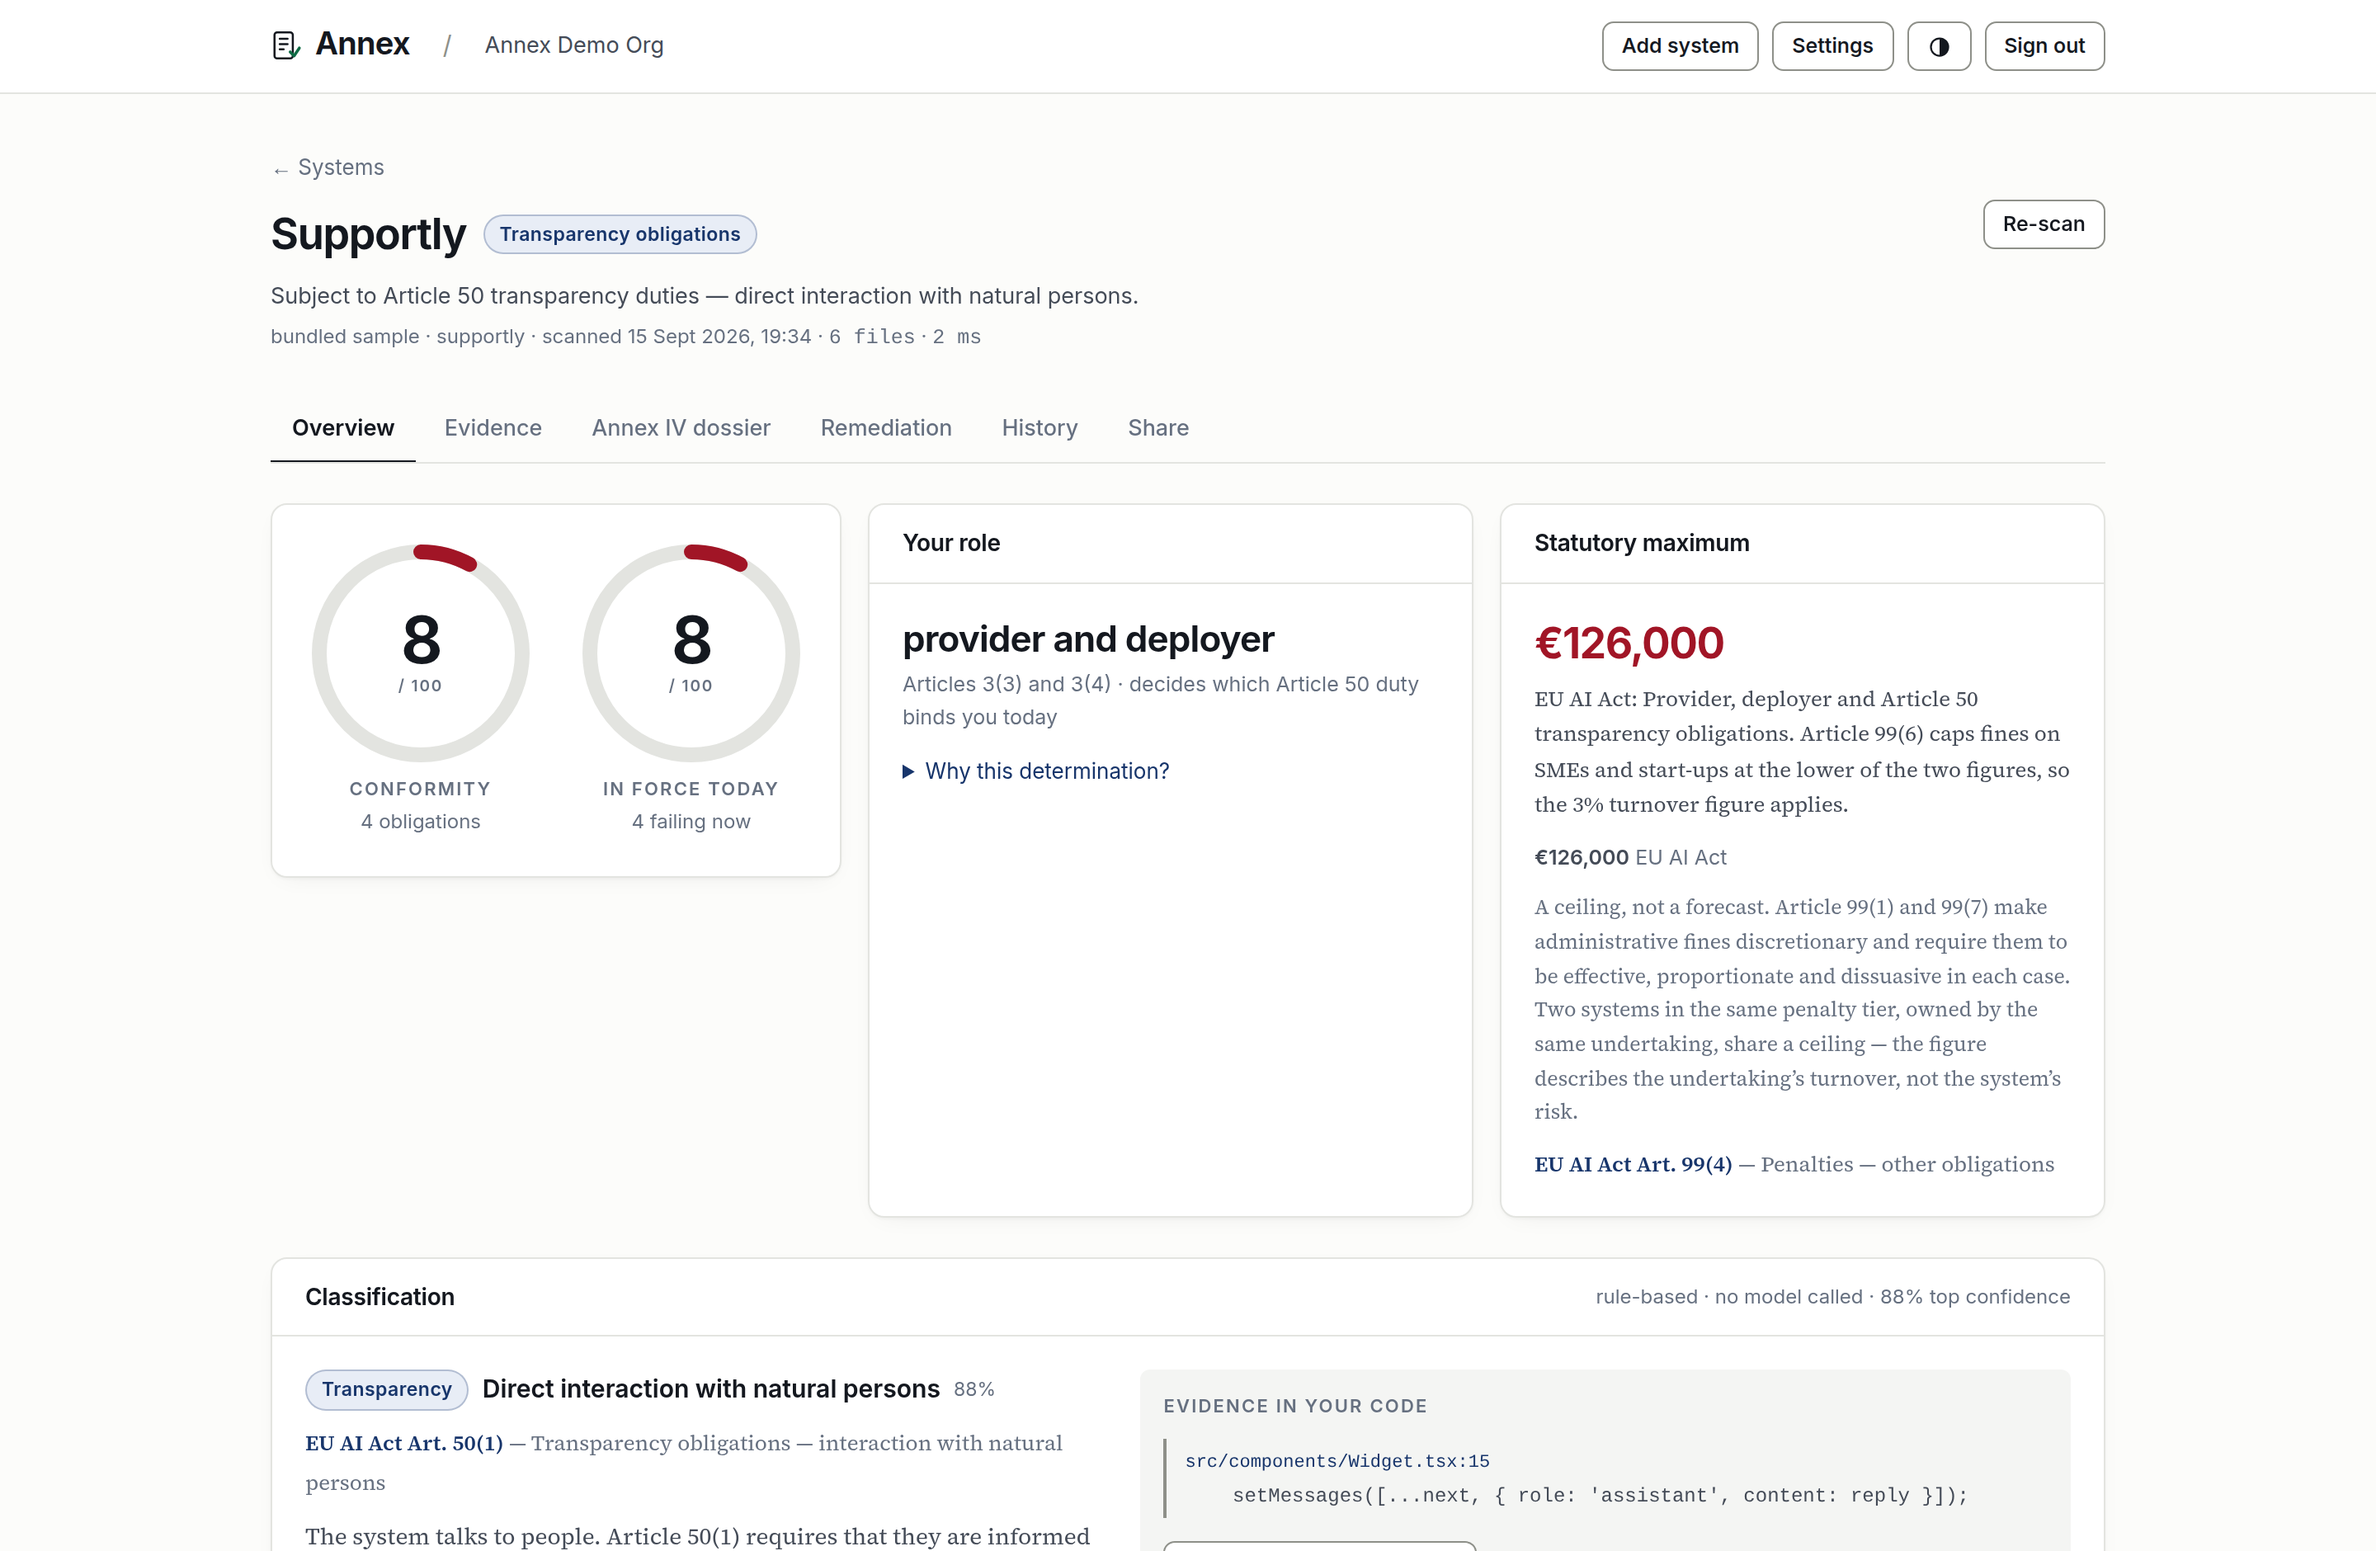
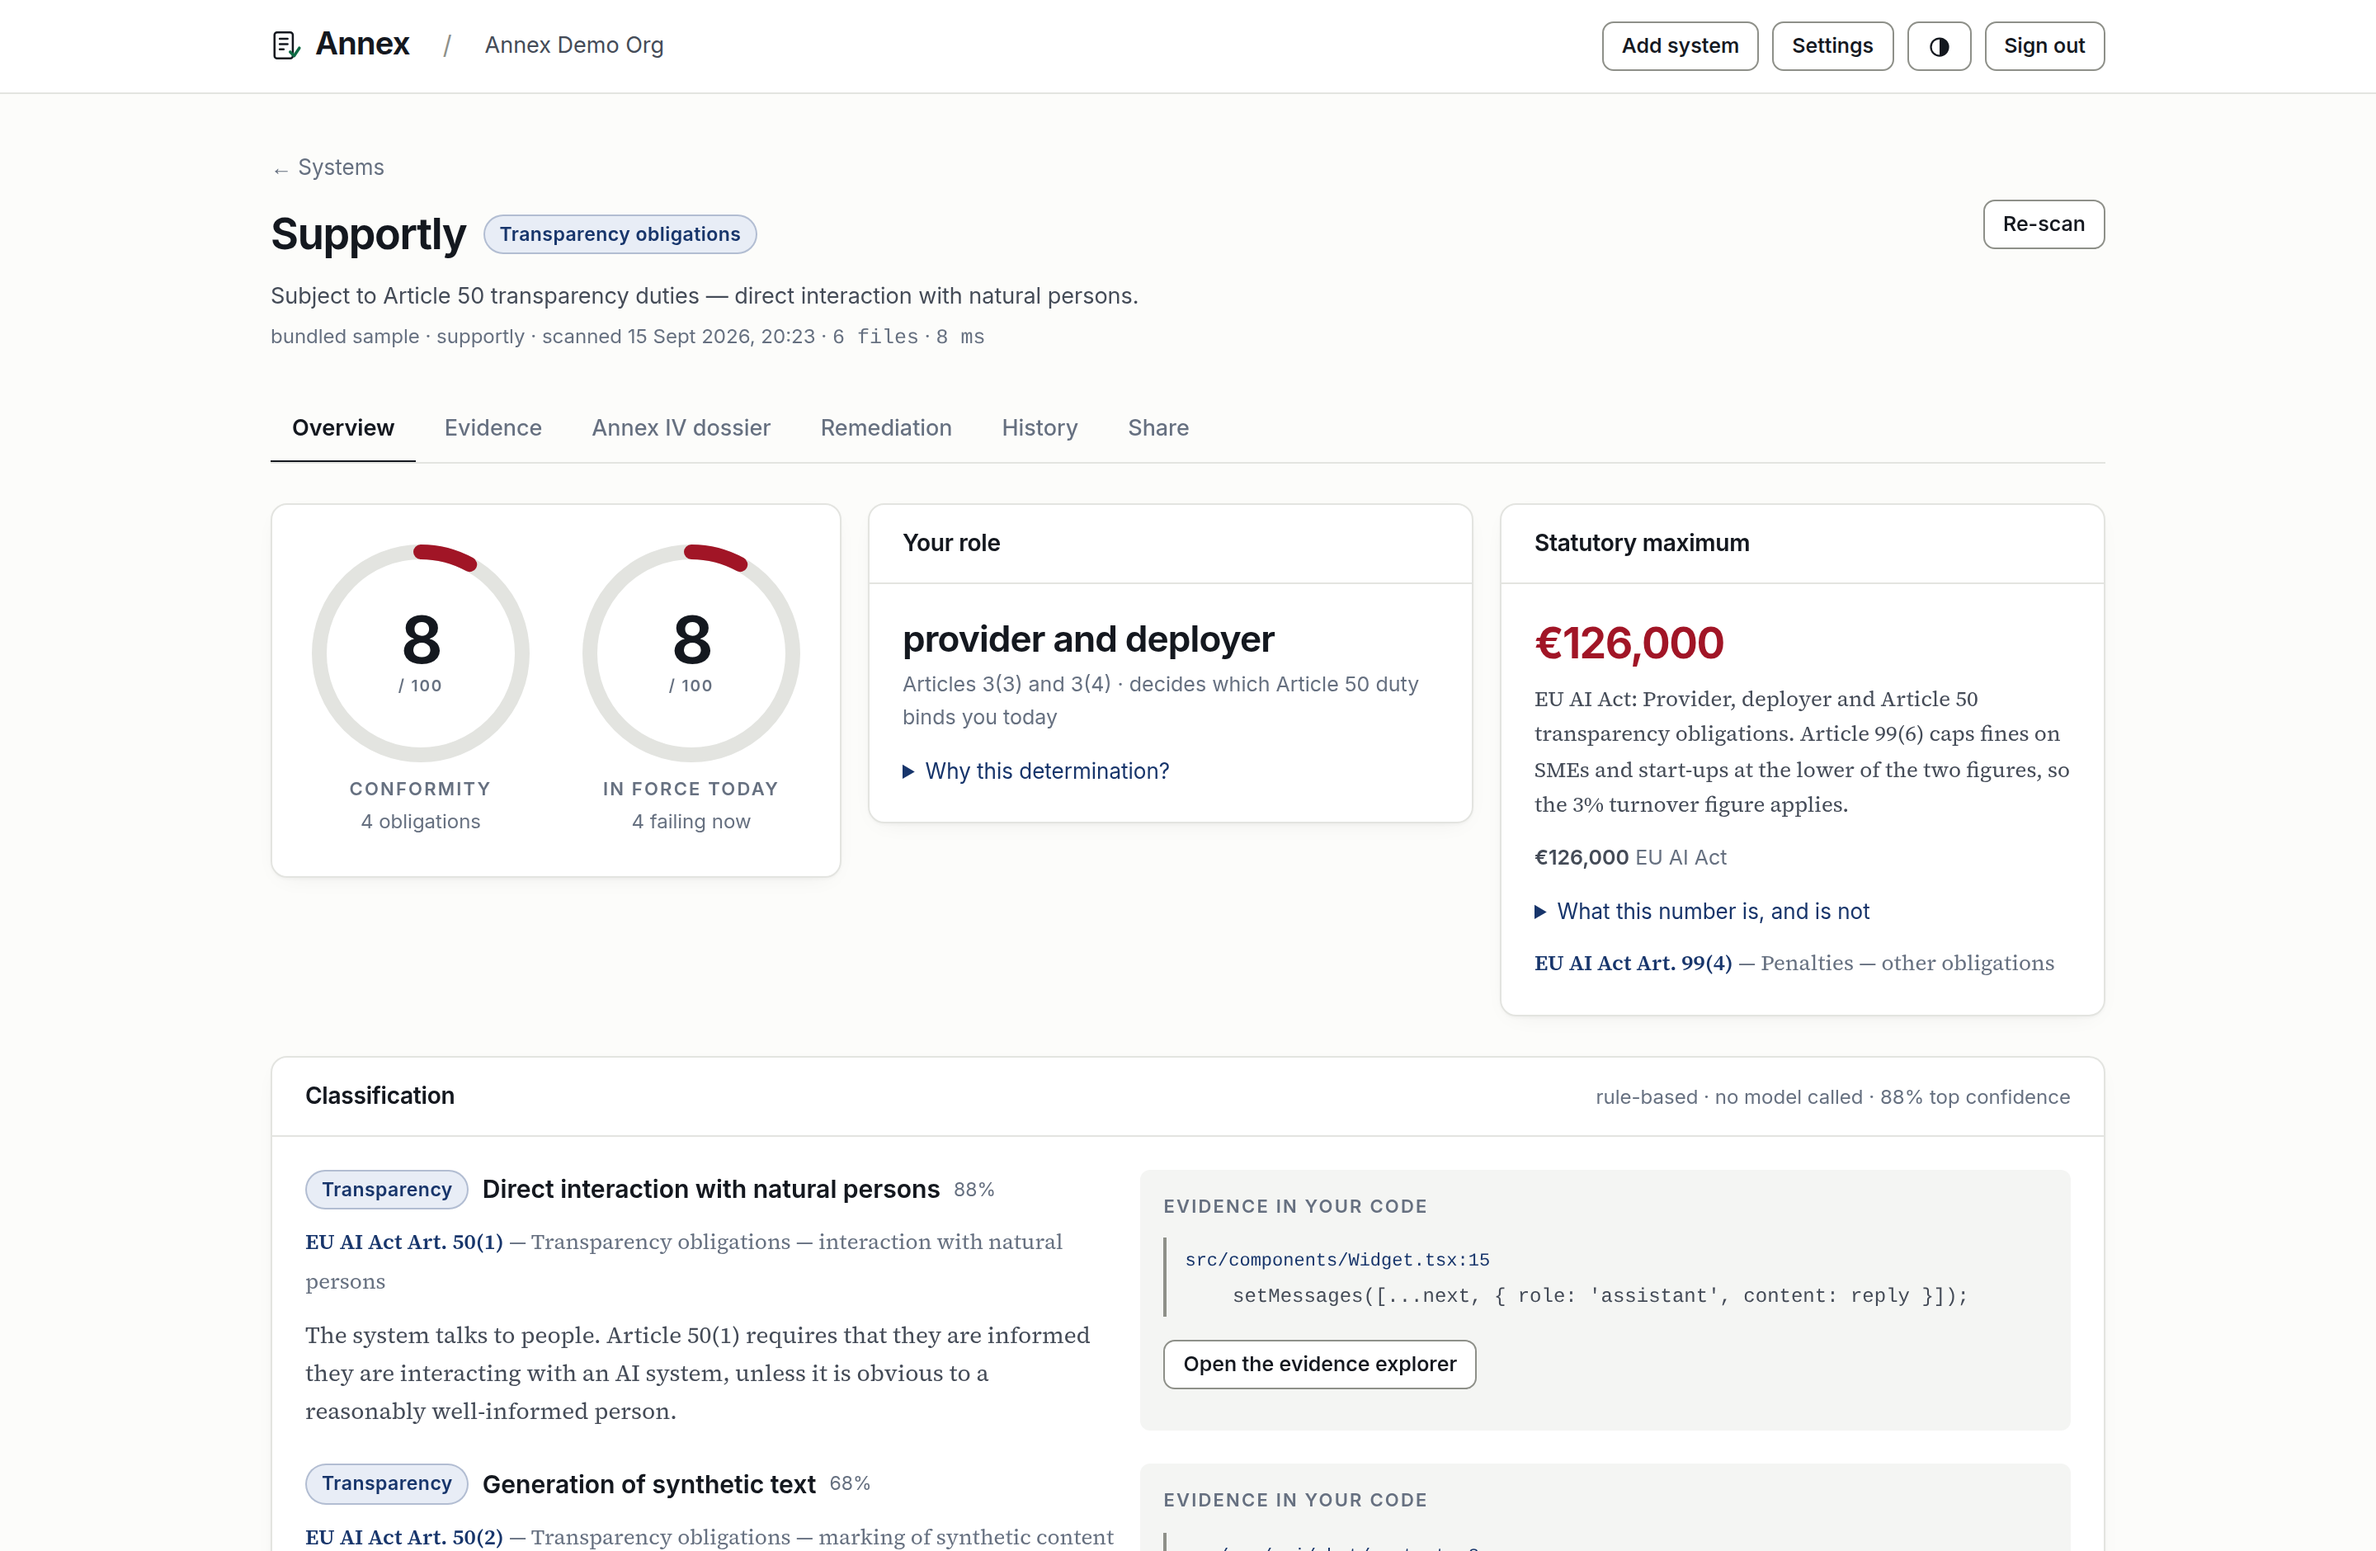
Report the largest statutory ceiling, not the sum, and refresh every artefact
Three corrections found by looking at the rebuilt UI:

- **The portfolio tile summed statutory ceilings across systems**, reporting
  €60m for three systems that share one €20m GDPR ceiling. These are maxima on
  an undertaking, and the same undertaking owns all four demo systems, so the
  tile shows the largest and says so.
- **The exposure basis repeated the per-regime breakdown** rendered directly
  beneath it. The sentence now covers the headline tier only.
- **`items-start` was missing from the inner overview grid**, so the short role
  card stretched to the height of the exposure card, and the long "ceiling, not
  a forecast" note is behind a disclosure to match the role card's pattern.

Documentation is re-synced to the engine after the penalty and date
corrections: the README's terminal capture, its `annex diff` example (now a
runnable one against two bundled fixtures rather than an invented
`origin/main`), its `annex verify` example, the accuracy table, and the drift
figures quoted in the Devpost write-up and the video script. Every screenshot,
the deck, the architecture diagram, the example dossier PDF, the SARIF, the
attestation and the ML-BOM are regenerated against this build.

The README also gains the section the invariant deserves — "Nothing goes green
because a file exists" — with the LendWise measurement in it: applying Annex's
own remediation moves the score 39 → 53, and adding a bare import does not move
it further.
[…]

diff --git a/apps/web/src/app/app/s/[id]/page.tsx b/apps/web/src/app/app/s/[id]/page.tsx
@@ -39,7 +39,7 @@ export default async function Overview({ params }: { params: Promise<{ id: strin
           />
         </div>
 
-        <div className="grid gap-4 sm:grid-cols-2">
+        <div className="grid items-start gap-4 sm:grid-cols-2">
           <Panel title="Your role">
             <p style={{ fontSize: 22, fontWeight: 650, letterSpacing: '-0.02em', margin: 0, lineHeight: 1.25 }}>
               {report.classification.role.replace('+', ' and ')}
@@ -88,12 +88,19 @@ export default async function Overview({ params }: { params: Promise<{ id: strin
               </ul>
             ) : null}
             {report.exposure.maxFine > 0 ? (
-              <p className="legal" style={{ fontSize: 12.5, color: 'var(--ink-faint)', margin: '10px 0 0' }}>
-                A ceiling, not a forecast: every one of these regimes leaves the amount to the enforcing
-                authority, and the AI Act says so expressly in Article 99(1) and 99(7). Two systems in the same
-                penalty tier, owned by the same undertaking, share a ceiling — the figure describes the
-                undertaking&rsquo;s turnover, not the system&rsquo;s risk.
-              </p>
+              <details className="mt-3">
+                <summary style={{ fontSize: 13, color: 'var(--navy)', cursor: 'pointer' }}>
+                  What this number is, and is not
+                </summary>
+                <p className="legal" style={{ fontSize: 12.5, color: 'var(--ink-soft)', margin: '8px 0 0' }}>
+                  A ceiling, not a forecast: every one of these regimes leaves the amount to the enforcing
+                  authority, and the AI Act says so expressly in Article 99(1) and 99(7). Two systems in the
+                  same penalty tier, owned by the same undertaking, share a ceiling — the figure describes the
+                  undertaking&rsquo;s turnover, not the system&rsquo;s risk. Each regime is priced on its own
+                  terms: the Article 99(6) SME inversion applies to the AI Act and not to GDPR Article 83,
+                  which says &ldquo;whichever is higher&rdquo; without exception.
+                </p>
+              </details>
             ) : null}
             {report.exposure.citations[0] ? (
               <p style={{ margin: '8px 0 0' }}>

diff --git a/apps/web/src/app/app/page.tsx b/apps/web/src/app/app/page.tsx
@@ -27,11 +27,16 @@ export default async function Dashboard() {
     r.data!.report.controls.filter((c) => c.inForce && (c.status === 'missing' || c.status === 'partial')),
   );
   const prohibitions = scanned.filter((r) => r.data!.report.classification.tier === 'prohibited');
-  // Only euro-denominated ceilings are summed. A NYC per-day civil penalty is
-  // a different kind of number and is shown on the system it belongs to.
-  const totalExposure = scanned.reduce(
-    (n, r) => n + (r.data!.report.exposure.currency === 'EUR' ? r.data!.report.exposure.maxFine : 0),
+  // The *largest* ceiling across the portfolio, not the sum.
+  //
+  // These are statutory maxima on an undertaking, and the same undertaking
+  // owns every system here — so adding them together would report €60m for
+  // three systems that share one €20m GDPR ceiling. A NYC per-day civil
+  // penalty is a different kind of number again, and stays on the system it
+  // belongs to.
+  const totalExposure = Math.max(
     0,
+    ...scanned.map((r) => (r.data!.report.exposure.currency === 'EUR' ? r.data!.report.exposure.maxFine : 0)),
   );
 
   const nextMilestone = ALL_PACKS.flatMap((p) => p.milestones)
@@ -73,7 +78,7 @@ export default async function Dashboard() {
             label="Statutory maximum"
             value={money(totalExposure)}
             tone={totalExposure > 0 ? 'warn' : 'ok'}
-            hint="ceiling, in force today"
+            hint="largest ceiling, not a sum"
           />
           <Tile
             label="Next deadline"

diff --git a/packages/engine/src/evaluate/index.ts b/packages/engine/src/evaluate/index.ts
@@ -441,12 +441,8 @@ export function estimateExposure(
           ? 'Worldwide annual turnover was not supplied, so only the flat cap is shown.'
           : 'This regime sets a flat civil penalty rather than a turnover-linked one.'
     }`;
-    const others = byRegime.filter((r) => r !== headline);
-    if (others.length) {
-      basis += ` ${others
-        .map((r) => `${r.packName} is separately exposed at ${r.currency} ${r.amount.toLocaleString('en-GB')}${r.multiplier ? ` ${r.multiplier}` : ''}.`)
-        .join(' ')}`;
-    }
+    // The other regimes are carried in `byRegime`, which every renderer lists
+    // beside this sentence. Repeating them here said the same thing twice.
     if (headline.multiplier) basis += ` This amount applies ${headline.multiplier}.`;
     if (outOfAiActScope) {
       basis += ` The AI Act is excluded from this figure because ${outOfAiActScope}; the regimes above are unaffected by that.`;

diff --git a/docs/DEVPOST.md b/docs/DEVPOST.md
@@ -133,6 +133,6 @@ Upload in this order; Devpost uses the first as the gallery thumbnail.
 2. `04-overview-prohibited.png` — **A classification you can argue with.** Each finding carries its own confidence and its own citation: the Article 5(1)(f) prohibition at 89 %, the Annex III point 4(a) classification at 97 %, cited to the line that rejects the candidate. The EU AI Act exposure line reads €294,000, not €35 million, because Article 99(6) inverts the cap for SMEs — while the GDPR line beside it is the full €20,000,000, because Article 83 does not.
 3. `06-dossier.png` — **The Annex IV dossier, generated.** Nine sections, every statement cited to a file and a line, and the open items derived from the control results rather than hardcoded — so the count means something and the document cannot contradict itself.
 4. `07-remediation.png` — **The files that close what code can close.** Additive only, `_TODO_` at every human judgement — and the projected score already assumes that merging them is not enough, because the next scan reads a scaffold as a scaffold.
-5. `09-history-drift.png` — **Substantial modification, detected from the diff.** Two scans of the same system, six weeks apart: conformity 78 → 4, high → prohibited, 29 controls regressed. Article 43(4) re-opens the conformity assessment, and only a tool that reads code can tell you it happened.
+5. `09-history-drift.png` — **Substantial modification, detected from the diff.** Two scans of the same system, six weeks apart: conformity 80 → 3, high → prohibited, 31 controls changed. Article 43(4) re-opens the conformity assessment, and only a tool that reads code can tell you it happened.
 6. `10-trust-page.png` — **What a customer's security reviewer gets.** The classification, the obligations and a ledger root they can check — and no source code.
 7. `02-landing-clock.png` — **The deadline moved; the obligations did not.** What is in force today, versus what everybody is waiting for.

diff --git a/README.md b/README.md
@@ -244,16 +244,28 @@ Being precise about what this is: a checksum chain, not a signature. There is no
 Article 3(23) defines a **substantial modification** as a change, not foreseen in the initial conformity assessment, that affects compliance with Chapter III Section 2 — and Article 43(4) then requires a *new* conformity assessment. Only something that reads the code can tell you a modification was substantial:
 
 ```
-$ annex diff --base origin/main --head HEAD
+$ annex diff --base fixtures/hireflow-remediated --head fixtures/hireflow
 
- SUBSTANTIAL MODIFICATION   origin/main → HEAD
+ SUBSTANTIAL MODIFICATION  fixtures/hireflow-remediated → fixtures/hireflow
 
- 1 control regressed, including at least one that affects compliance with
- Chapter III, Section 2. On the Article 3(23) definition this is a
- substantial modification.
+  The risk classification moved from high to prohibited. A change in the
+  intended purpose is a substantial modification on the face of Article 3(23),
+  and Article 43(4) then requires the conformity assessment to be re-opened
+  and the technical documentation updated.
 
- ✖ Effective human oversight while the system is in use   satisfied → missing
+  conformity  81 → 3 (-78)
+  tier        high → prohibited
+
+  ✖ No emotion inference in the workplace or education   not_applicable → missing
+  ✖ Measures to support AI literacy                          satisfied → missing
+  ✖ Tell people they are talking to an AI                    satisfied → missing
+  … 28 more
 ```
+
+Both sides take a git ref or a directory, so this works in CI against
+`origin/main`, and in a demo against two checked-in trees. Exit code 1 when the
+modification is substantial, which is what makes it a pull-request gate.
+
 
 A questionnaire cannot do this at all: it is answered once, by a person, about a system that then changes underneath it.
 

diff --git a/docs/VIDEO.md b/docs/VIDEO.md
@@ -95,7 +95,7 @@ Everything below in **bold** is said out loud, word for word. Everything in plai
 
 > **Then it writes the fix. Additive files only, with the article number in the comment and a TODO wherever a person has to decide. And merging it doesn't make you compliant — the next scan reads these files the way an auditor would, so a document with unfilled placeholders counts as partial, and a module nothing calls counts as partial.**
 
-**Screen:** Cut to the **History** tab of HireFlow. The red `Substantial modification` badge, `78 → 4`, `high → prohibited`, and the regressed list underneath. Hold three seconds.
+**Screen:** Cut to the **History** tab of HireFlow. The red `Substantial modification` badge, `80 → 3`, `high → prohibited`, and the regressed list underneath. Hold three seconds.
 
 **Say:**
 
